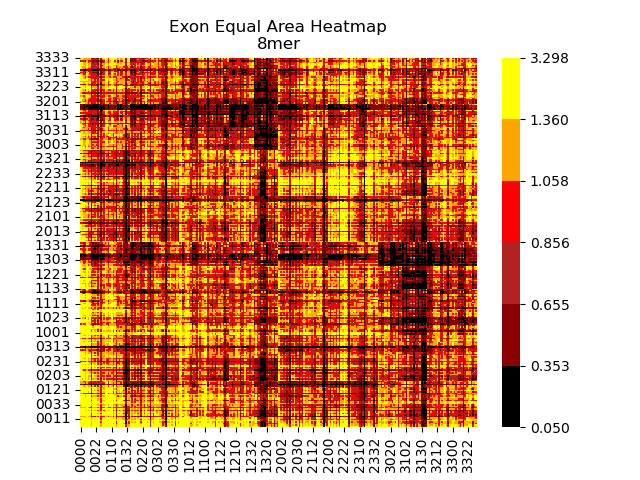
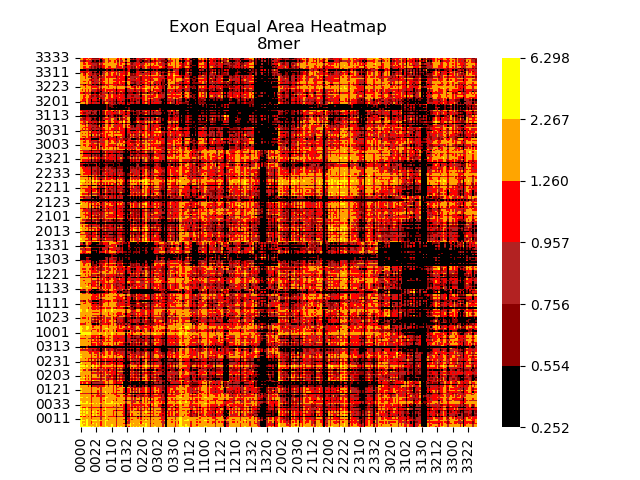
Start writing Heatmap section

diff --git a/FractalDimension/Heatmaps.py b/FractalDimension/Heatmaps.py
@@ -37,50 +37,57 @@ def main():
     # title_details = f"Independent Scaling Log2 Transform {nucsequence} Order Cbins = {cbins}"
     # file_details = title_details.replace(" ", "")
 
-    k = 1
-    # colors: list = ['darkred', 'red', 'orange', 'gold', 'yellow'] 
-    # bounds: list = [0, 0.8, 1.0, 1.1, 2.0] # OG - so I tried being slick and finding various points, but the problem is that these spacing are way to close together. I'm going back to eyeballing it, which gives a better color distribution
-    # # bounds: list = [0, 0.8, 1.0, 1.1, 2.0] # 0.98
-    # # bounds: list = [0, 0.8, 1.0, 1.1, 2.0] # 0.95
-    # # bounds: list = [0, 0.8, 1.0, 1.1, 1.2] # 0.92
+    # k = 1
+    # colors: list = ['black', 'darkred', 'red', 'orange', 'gold', 'yellow'] 
+    # bounds: list = [0, 0.7, 0.8, 1.0, 1.1, 1.2] # 0.98
+    # # # bounds: list = [0, 0.8, 1.0, 1.1, 2.0] # OG - so I tried being slick and finding various points, but the problem is that these spacing are way to close together. I'm going back to eyeballing it, which gives a better color distribution
+    # # # bounds: list = [0, 0.25, 0.687, 0.899, 1.004, 1.216]
+    # # # bounds: list = [0, 0.8, 1.0, 1.1, 2.0] # 0.95
+    # # # bounds: list = [0, 0.8, 1.0, 1.1, 1.2] # 0.92
 
-    k = 2
-    # colors: list = ['darkred', 'firebrick', 'red', 'orange', 'gold', 'yellow']
-    # bounds: list = [0, 0.7, 0.98, 1.20, 1.40, 2.00]
-    # bounds: list = [0, 0.65, 0.87, 0.97, 1.1, 1.49]  # 0.98
-    # bounds: list = [0, 0.65, 0.87, 0.97, 1.1, 1.38]  # 0.95
-    # bounds: list = [0, 0.65, 0.87, 0.97, 1.1, 1.2] # 0.92
-
-    k = 3
-    colors: list = ['black', 'darkred', 'firebrick', 'red', 'orange', 'gold', 'yellow']
-    # bounds: list = [0, 0.46, 0.96, 1.30, 1.60, 2.00]
-    bounds: list = [0.05, 0.351, 0.652, 0.853, 1.054, 1.355, 3.664]
-    # # bounds: list = [0, 0.45, 0.85, 0.95, 1.2, 1.75]  # 0.98
-    # # bounds: list = [0, 0.45, 0.85, 0.95, 1.2, 1.5]  # 0.95
-    # bounds: list = [0, 0.45, 0.85, 0.95, 1.2, 1.4]  # 0.92
-
-    k = 4
-    colors: list = ['black', 'darkred', 'firebrick', 'red', 'orange', 'gold', 'yellow']
-    # bounds: list = [0, 0.4, 0.96, 1.30, 1.80, 2.00]
-    bounds: list = [0.05, 0.353, 0.655, 0.856, 1.058, 1.36, 3.298]
-    # bounds: list = [0, 0.35, 0.65, 0.95, 1.2, 2.0]  # 0.98
-    # bounds: list = [0, 0.35, 0.65, 0.95, 1.2, 1.76]  # 0.95
-    # bounds: list = [0, 0.35, 0.65, 0.95, 1.2, 1.56]  # 0.92
-
-    k = 5
+    # k = 2
     # colors: list = ['black', 'darkred', 'firebrick', 'red', 'orange', 'gold', 'yellow']
-    # bounds: list = [0, 0.15, 0.90, 1.30, 2.00, 3.50]
-    bounds: list = [0.05, 0.252, 0.555, 0.858, 1.16, 1.665, 4.635]
-    # bounds: list = [0, 0.15, 0.45, 0.85, 1.26, 3.00] # 0.98
-    # bounds: list = [0, 0.15, 0.45, 0.85, 1.26, 1.96] # 0.95
-    # bounds: list = [0, 0.15, 0.45, 0.85, 1.26, 1.7] # 0.92
+    # bounds: list = [0, 0.65, 0.87, 0.97, 1.1, 1.2, 1.3]  # 0.98
+    # # # bounds: list = [0.977, 1.183, 1.388, 1.594, 1.8, 2.005, 2.211]
+    # # # bounds: list = [0, 0.5, 1.08, 1.388, 1.697, 1.903, 2.108]
+    # # # bounds: list = [0, 0.65, 0.87, 0.97, 1.1, 1.38]  # 0.95
+    # # # bounds: list = [0, 0.65, 0.87, 0.97, 1.1, 1.2] # 0.92
 
-    # k = 6
+    # k = 3
+    # measure_target = 0.05
     # colors: list = ['black', 'darkred', 'firebrick', 'red', 'orange', 'gold', 'yellow']
-    # bounds: list = [0, 0.75, 1.05, 1.45, 1.859, 2.462, 3.165]
-    # bounds: list = [0, 0.754, 1.056, 1.457, 1.859, 2.462, 3.165] # 0.98
-    # bounds: list = [0, 0.754, 1.056, 1.457, 1.859, 2.462, 3.165] # 0.95
-    # bounds: list = [0, 0.754, 1.056, 1.457, 1.859, 2.462, 3.165] # 0.92
+    # bounds: list = [0, 0.45, 0.85, 0.95, 1.2, 1.4, 1.75]  # 0.98
+    # # # bounds: list = [0.853, 1.154, 1.355, 1.556, 1.757, 1.957, 2.158]
+    # # # bounds: list = [1.154, 1.556, 1.857, 2.158, 2.459, 2.76, 2.961]
+    # # # bounds: list = [0, 0.46, 0.96, 1.30, 1.60, 2.00]
+    # # # bounds: list = [0, 0.45, 0.85, 0.95, 1.2, 1.5]  # 0.95
+    # # # bounds: list = [0, 0.45, 0.85, 0.95, 1.2, 1.4]  # 0.92
+
+    # k = 4
+    # colors: list = ['black', 'darkred', 'firebrick', 'red', 'orange', 'gold', 'yellow']
+    # bounds: list = [0, 0.35, 0.65, 0.95, 1.2, 1.4, 1.7]  # 0.98
+    # # # bounds: list = [0.756, 1.058, 1.26, 1.461, 1.663, 1.864, 2.066]
+    # # # bounds: list = [1.26, 1.763, 2.166, 2.469, 2.771, 3.073, 3.376]
+    # # # bounds: list = [0, 0.4, 0.96, 1.30, 1.80, 2.00]
+    # # # bounds: list = [0, 0.35, 0.65, 0.95, 1.2, 1.76]  # 0.95
+    # # # bounds: list = [0, 0.35, 0.65, 0.95, 1.2, 1.56]  # 0.92
+
+    # k = 5
+    # colors: list = ['black', 'darkred', 'firebrick', 'red', 'orange', 'gold', 'yellow']
+    # bounds: list = [0, 0.15, 0.45, 0.85, 1.26, 1.7, 2.4] # 0.98
+    # # # bounds: list = [0.555, 0.858, 1.16, 1.362, 1.564, 1.766, 1.967]
+    # # # bounds: list = [0.555, 0.858, 1.16, 1.362, 1.564, 1.766, 1.967]
+    # # # bounds: list = [0.05, 0.252, 0.555, 0.858, 1.16, 1.665, 4.635]
+    # # # bounds: list = [0, 0.15, 0.45, 0.85, 1.26, 1.96] # 0.95
+    # # # bounds: list = [0, 0.15, 0.45, 0.85, 1.26, 1.7] # 0.92
+
+    k = 6
+    measure_target = 0.01
+    colors: list = ['black', 'darkred', 'firebrick', 'red', 'orange', 'gold', 'yellow']
+    bounds: list = [0, 0.452, 0.85, 1.45, 1.85, 2.36, 3.2] # 0.98
+    # # # bounds: list = [0, 0.75, 1.05, 1.45, 1.859, 2.462, 3.165]
+    # # # bounds: list = [0, 0.754, 1.056, 1.457, 1.859, 2.462, 3.165] # 0.95
+    # # # bounds: list = [0, 0.754, 1.056, 1.457, 1.859, 2.462, 3.165] # 0.92
 
     if 1 == k:
         label_points = True
@@ -110,15 +117,14 @@ def main():
 
     # cticks = [((intron_max - 0) / cbins)*i for i in range(cbins)]
     # title_details = f"Independent Scaling Log2 Transform {nucsequence} Order Cbins = {len(bounds)}"
-    title_details = f"Same Area Heatmap bounds v4"
+    title_details = f"EAH_vF"
     file_details = title_details.replace(" ", "")
 
 
     # pdf_cdf(exon_file, intron_file,
-    #         # print_targets = [0.7, 0.8, 0.85, 0.9, 0.95, 0.98], 
-    #         print_targets = [0.2, 0.4, 0.6, 0.8, 0.85, 0.9, 0.92, 0.95, 0.98], 
-    #         pdf_title = f"PDF for {2*k}mer", pdf_outpath = cwd / "TE_Images_ForPaper" / "Histograms" / f"PDF_{2*k}mer_v2.png",
-    #         cdf_title = f"CDF for {2*k}mer", cdf_outpath = cwd / "TE_Images_ForPaper" / "Histograms" / f"CDF_{2*k}mer_v2.png")
+    #         measure_target = measure_target, 
+    #         pdf_title = f"PDF for {2*k}mer", pdf_outpath = cwd / "TE_Images_ForPaper" / "Histograms" / f"PDF_{2*k}mer_JT_001.png",
+    #         cdf_title = f"CDF for {2*k}mer", cdf_outpath = cwd / "TE_Images_ForPaper" / "Histograms" / f"CDF_{2*k}mer_JT_001.png")
     # exit()
 
     # # master_max, master_min = min_max(master)
@@ -169,12 +175,16 @@ def main():
 def pdf_cdf(data1: dict or pathlib.Path, data2: dict or pandas.DataFrame, 
             pdf_title: str = None, cdf_title: str = None, 
             pdf_outpath: pathlib.Path = None, cdf_outpath: pathlib.Path = None,
-            print_targets: list = None,
+            measure_target: str or float or list = None,
             *args, **kwargs):
     '''
     Does the PDF and CDF of the data all at once.
 
     It's just going to be easier to do it like this.
+
+    Measure_target is a str, float, or list: if it's a string it looks for equal area (you should put in equal area but just any string should do): if it's a list it goes to print target, and if it's a float it goes to jumps.
+
+    Jumps is a float threshold: if the value is greater then that it marks it as an output.
     '''
     if isinstance(data1, pathlib.Path):
         data1 = _import_data(data1, just_import = True)
@@ -206,56 +216,108 @@ def pdf_cdf(data1: dict or pathlib.Path, data2: dict or pandas.DataFrame,
         cumm += pdf[i, 3]
         cdf[i, 3] = cumm
 
-    i_xticks = equal_area(cdf)
-    # print(set_xticks)
-    set_xticks = {}  # yes I am naming this after the matplotlib argument... sue me.
-    for i, j in i_xticks.items():
-        set_xticks[j] = xticks[int(j)]
-
-    if isinstance(print_targets, list):
-        for target in print_targets:
-            idx = np.asarray(cdf[:, 3])
-            idx = (np.abs(idx - target)).argmin()
-
-            print(f"Closest to {target}: {xticks[idx]}\t{idx}")
-            # set_xticks[idx] = xticks[idx]
+    if isinstance(measure_target, list):
+        set_xticks = _print_targets(cdf, measure_target, xticks) # yes I am naming this after the matplotlib argument... sue me.
+    elif isinstance(measure_target, str):
+        set_xticks = _equal_area(cdf, xticks, *args, **kwargs)
+    elif isinstance(measure_target, float):
+        set_xticks = _jumps(cdf, xticks, threshold = measure_target, *args, **kwargs)
 
     bar_chart(pdf, title = pdf_title, outpath = pdf_outpath, xticks = set_xticks)
     bar_chart(cdf, title = cdf_title, outpath = cdf_outpath, xticks = set_xticks)
 
 
-def equal_area(data: np.ndarray, p: int = 7):
+def _jumps(data: np.ndarray, xticks: list, threshold: float = 0.05):
     '''
+    Looks for high "jumps" in the cdf. Probably better for the 2-mer and 12-mers as they have a wicked discontinuous CDF curve. If the adjacent y positions are above a certain threshold it marks it in the set_xticks 
+    (the second one: you can then set the color on the heatmap just below this value)
+
+    The reason why I use xticks here is because it's just easier. xticks already has the middle between the two columns, so instead of doing that same calculation over again, just index out the information
+    '''
+    rows, _ = data.shape
+    set_xticks = {}
+
+    for row in range(rows - 1):
+        f1 = data[row, 3]
+        f2 = data[row + 1, 3]
+
+        if abs(f1 - f2) >= threshold:
+            set_xticks[row + 1] = xticks[row + 1]
+
+    return set_xticks
+
+
+def _print_targets(data: np.ndarray, targets: list, xticks: list):
+    '''
+    This takes a list and prints the x position closest to that position.
+
+    The reason why I use xticks here is because it's just easier. xticks already has the middle between the two columns, so instead of doing that same calculation over again, just index out the information
+    '''
+    set_xticks = {}
+
+    for target in targets:
+        idx = np.asarray(data[:, 3])
+        idx = (np.abs(idx - target)).argmin()
+
+        print(f"Closest to {target}: {xticks[idx]}\tindex = {idx}")
+
+        set_xticks[idx] = xticks[idx]
+
+    return set_xticks
+
+
+def _equal_area(data: np.ndarray, xticks: list, p: int = 7):
+    '''
+    Basically a cheap integration function.
+
+    The reason why I use xticks here is because it's just easier. xticks already has the middle between the two columns, so instead of doing that same calculation over again, just index out the information
     '''
     # print(data)
     # print(type(data))
-    target_a = (1 - data[0, 3]) / p
+    # target_a = (1 - data[0, 3]) / p
+    target_a = 1 / p
     # print(target_a)
 
-    idx = {}
-    idx[0] = data[0, 0]
+    set_xticks = {}
+    # idx[0] = data[0, 0]
     rows, _ = data.shape
 
-    idx_start = 1
-    for i in range(1, p + 1):
+    idx_start = 0
+    stop_condition = False
+    for i in range(p):
         a = 0
-        for j in range(idx_start, rows- 1):
-            a += data[j + 1, 3] - data[j, 3]
-            
+        for j in range(idx_start + 1, rows - 1):
+            m = (data[j, 2] + data[j, 1]) / rows
+            a += m * data[j, 3]
             if a >= target_a:
-                idx[i] = int(data[j, 0])
+                set_xticks[i] = xticks[i]
                 idx_start = j + 1
                 break
 
         else:
-            idx[i] = int(data[j, 0])
+            set_xticks[i] = xticks[i]
+            
+    # for i in range(p + 1):
+    #     if stop_condition:
+    #         break
 
-    print(idx)
+    #     a = 0
+    #     for j in range(idx_start, rows - 1):
+    #         # a += data[j + 1, 3] - data[j, 3]
+    #         a += data[j + 1, 3]
+            
+    #         if a >= target_a:
+    #             idx[i] = int(data[j, 0])
+    #             idx_start = j + 1
+    #             break
 
-    return idx
+    #     else:
+    #         idx[i] = int(data[j, 0])
+    #         stop_condition = True
 
+    # # print(idx)
 
-
+    return set_xticks
 
 
 def bar_chart(data: np.array, xticks: dict = None, title: str = None, outpath: pathlib.Path = None, *args, **kwargs):
@@ -361,7 +423,11 @@ def heatmapv2(data: dict or pandas.DataFrame or pathlib.Path,
                 ax = ax,
                 cmap = cus_cmap,
                 norm = cus_norm)
-    # ax.tick_params(left = False, bottom = False)
+    ax.set(xticklabels = [])
+    ax.set(yticklabels = [])
+    ax.set(xlabel = "Forwards Sequence")
+    ax.set(ylabel = "Backwards Sequence")
+    ax.tick_params(left = False, bottom = False)
     
     # plt.xlabel("Back")
     # plt.ylabel("Forward")
